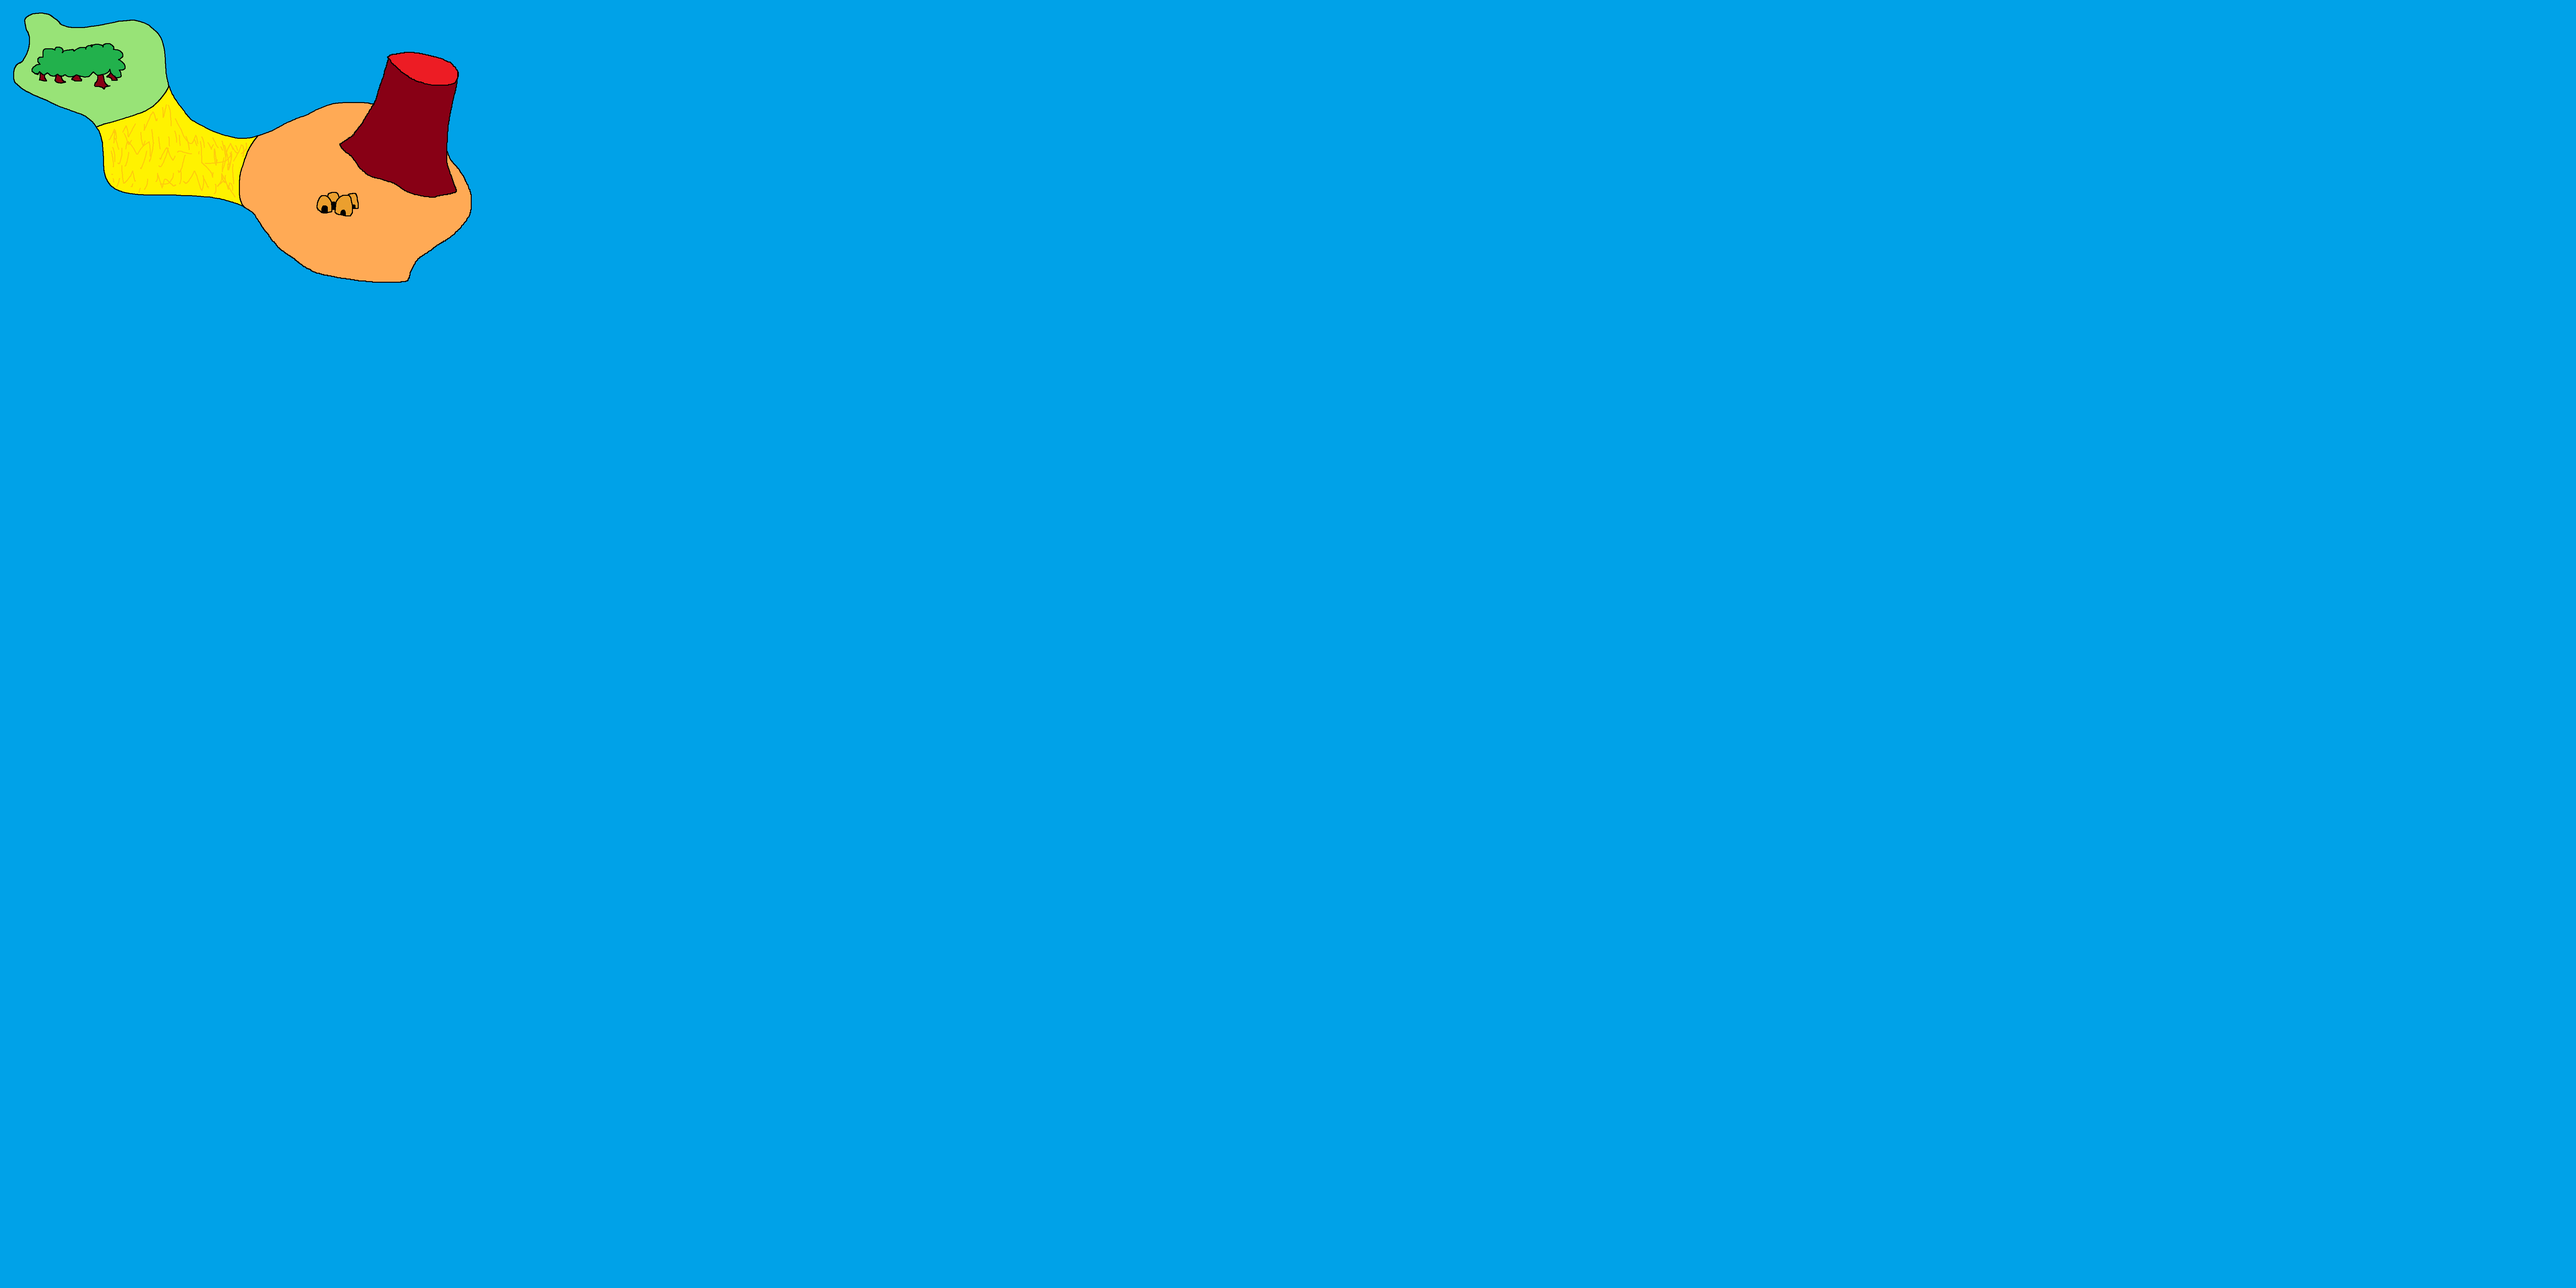
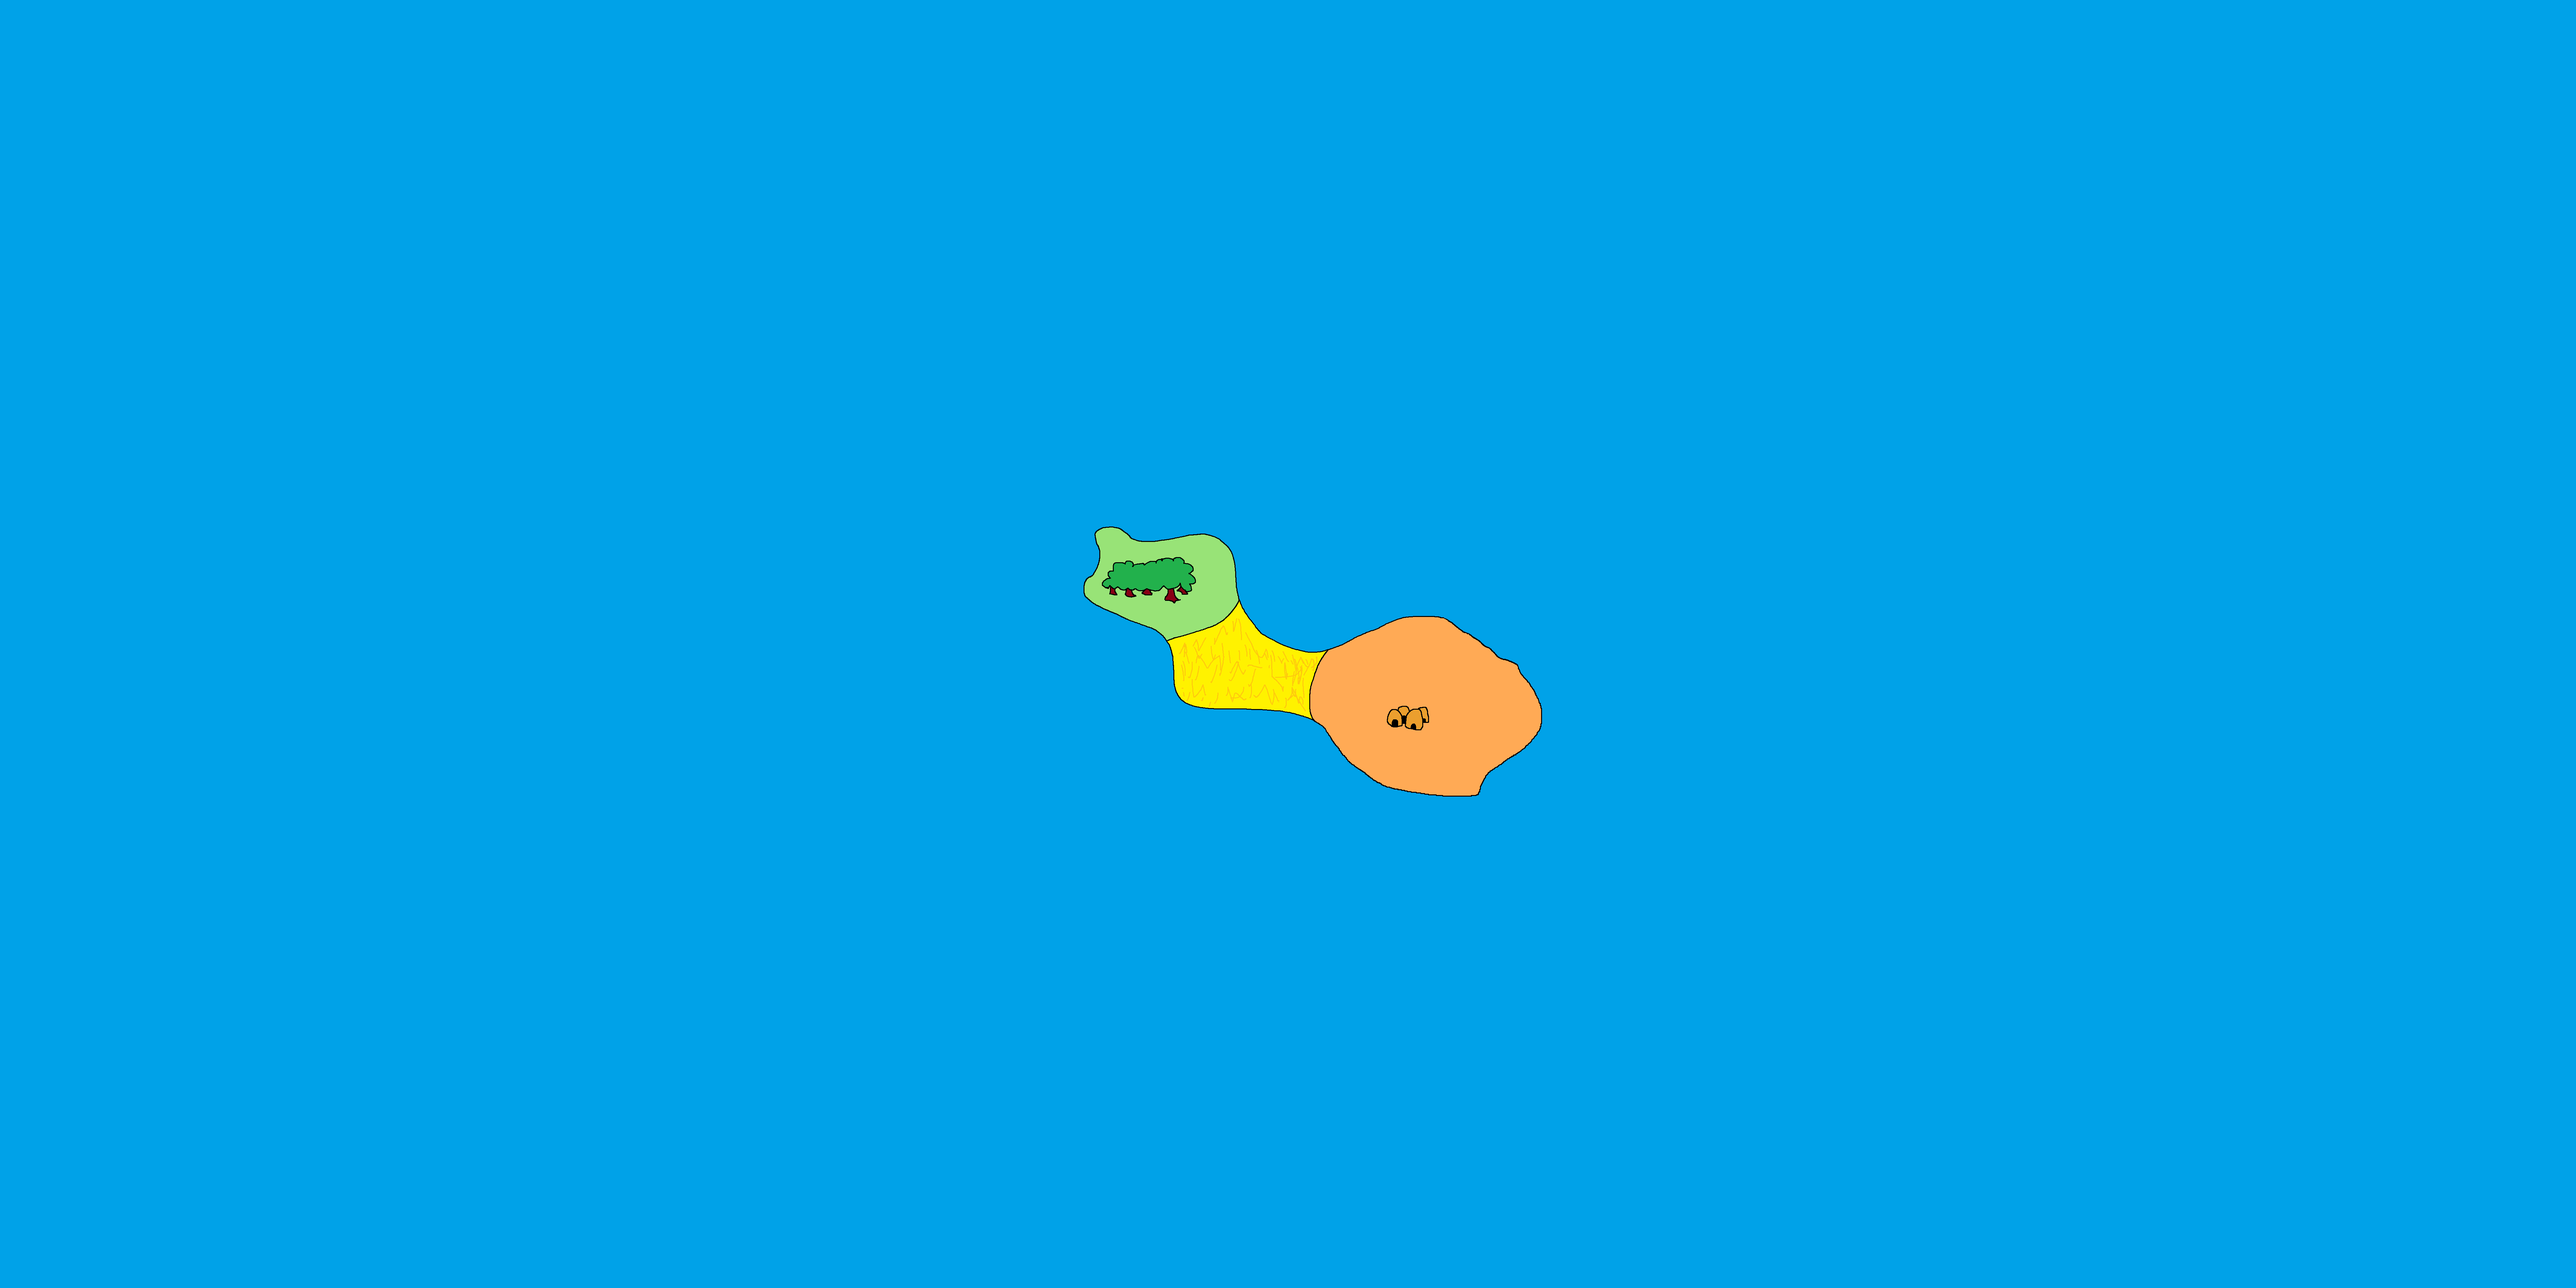
World map clean up

Changed region(s): [[0.0, 0.0, 0.1875, 0.2188], [0.4062, 0.4062, 0.625, 0.625]]

diff --git a/AngularFrontend/LootHoarderClient/src/app/app.module.ts b/AngularFrontend/LootHoarderClient/src/app/app.module.ts
@@ -14,7 +14,6 @@ import { GameComponent } from './game/game/game.component';
 import { AuthGuard } from './auth/auth.guard';
 import { GameService } from './game/service/game.service';
 import { WebSocketService } from './game/web-socket/web-socket.service';
-import { HeroListComponent } from './game/game/game-tab-heroes/hero-list/hero-list.component';
 import { LabelWithValueComponent } from './shared/label-with-value/label-with-value.component';
 import { AssetManagerService } from './game/game/client-representation/asset-manager.service';
 import { GameTabMenuComponent } from './game/game/game-tab-menu/game-tab-menu.component';
@@ -38,12 +37,15 @@ import { HeroWithItemsComponent } from './game/game/game-tab-heroes/hero-with-it
 import { HeroWithItemsItemComponent } from './game/game/game-tab-heroes/hero-with-items/hero-with-items-item/hero-with-items-item.component';
 import { ItemComponent } from './game/game/item/item.component';
 import { ItemPreviewComponent } from './game/game/item-preview/item-preview.component';
+import { SelectedHeroTabMenuComponent } from './game/game/game-tab-heroes/selected-hero-tab-menu/selected-hero-tab-menu.component';
+import { SelectedHeroAbilitiesTabComponent } from './game/game/game-tab-heroes/selected-hero-abilities-tab/selected-hero-abilities-tab.component';
+import { SelectedHeroItemsTabComponent } from './game/game/game-tab-heroes/selected-hero-items-tab/selected-hero-items-tab.component';
+import { SelectedHeroPassivesTabComponent } from './game/game/game-tab-heroes/selected-hero-passives-tab/selected-hero-passives-tab.component';
 
 @NgModule({
   declarations: [
     AppComponent,
     CreateNewHeroComponent,
-    HeroListComponent,
     LabelWithValueComponent,
     LoginComponent,
     CreateUserComponent,
@@ -53,6 +55,10 @@ import { ItemPreviewComponent } from './game/game/item-preview/item-preview.comp
     CombatComponent,
     CombatCharacterComponent,
     GameTabHeroesComponent,
+    SelectedHeroTabMenuComponent,
+    SelectedHeroAbilitiesTabComponent,
+    SelectedHeroItemsTabComponent,
+    SelectedHeroPassivesTabComponent,
     HeroInformationComponent,
     HeroWithItemsComponent,
     HeroWithItemsItemComponent,

diff --git a/AngularFrontend/LootHoarderClient/src/app/game/game/game-tab-world/game-tab-world.component.ts b/AngularFrontend/LootHoarderClient/src/app/game/game/game-tab-world/game-tab-world.component.ts
@@ -22,8 +22,6 @@ export class GameTabWorldComponent {
 
   private dragStartX?: number;
   private dragStartY?: number;
-  private readonly worldMapWidth = 8000;
-  private readonly worldMapHeight = 4000;
 
   public get areaTypes(): AreaType[] {
     return this.game.availableAreaTypes;
@@ -35,6 +33,10 @@ export class GameTabWorldComponent {
   public set y(newValue: number) { this.worldTab.worldMapY = newValue; }
   public get zoom(): number { return this.worldTab.worldMapZoom; }
   public set zoom(newValue: number) { this.worldTab.worldMapZoom = newValue; }
+  public get worldMapWidth(): number { return this.worldTab.worldMapWidth; }
+  public get worldMapHeight(): number { return this.worldTab.worldMapHeight; }
+  public get worldMapFixtureX(): number { return this.worldTab.worldMapFixtureX; }
+  public get worldMapFixtureY(): number { return this.worldTab.worldMapFixtureY; }
 
   public selectGameAreaType(areaType: GameAreaType): void {
     if (!areaType.isAvailable) {
@@ -44,11 +46,11 @@ export class GameTabWorldComponent {
   }
 
   public getGameAreaTypeLeft(areaType: GameAreaType): string {
-    return areaType.type.x - 30 + 'px';
+    return areaType.type.x + this.worldMapFixtureX - 30 + 'px';
   }
 
   public getGameAreaTypeTop(areaType: GameAreaType): string {
-    return areaType.type.y - 85 + 'px';
+    return areaType.type.y + this.worldMapFixtureY - 85 + 'px';
   }
 
   public startDragging(mouseEvent: MouseEvent): void {
@@ -62,8 +64,8 @@ export class GameTabWorldComponent {
 
       const newDragStartX = mouseEvent.clientX;
       const newDragStartY = mouseEvent.clientY;
-      const deltaX = newDragStartX - this.dragStartX;
-      const deltaY = newDragStartY - this.dragStartY;
+      const deltaX = (newDragStartX - this.dragStartX) / this.zoom;
+      const deltaY = (newDragStartY - this.dragStartY) / this.zoom;
       let newX = this.x + deltaX;
       let newY = this.y + deltaY;
       const browserElement = mouseEvent.currentTarget as Element;

diff --git a/AngularFrontend/LootHoarderClient/src/app/game/game/game-tab-heroes/game-tab-heroes.component.html b/AngularFrontend/LootHoarderClient/src/app/game/game/game-tab-heroes/game-tab-heroes.component.html
@@ -3,6 +3,7 @@
   class="container"
 >
   <div class="hero-list-container">
+    <div class="hero-list-header">Heroes</div>
     <ul class="hero-list">
       <li
         *ngFor="let hero of game.heroes"
@@ -31,26 +32,11 @@
     </ul>
   </div>
   <ng-container *ngIf="selectedHero">
-    <div class="hero-with-items-container">
-      <app-hero-with-items
+    <div class="selected-hero-tabs-container">
+      <app-selected-hero-tab-menu
+        [game]="game"
         [hero]="selectedHero"
-        [draggedItem]="draggedItem"
-        [canInteractWithItems]="true"
-      ></app-hero-with-items>
-      <ul class="item-list">
-        <li *ngFor="let item of game.items">
-          <app-item
-            [item]="item"
-            (dragstart)="setDraggedItem(item)"
-            (dragend)="setDraggedItem(undefined)"
-          ></app-item>
-        </li>
-      </ul>
-    </div>
-    <div class="hero-information-container">
-      <app-hero-information
-        [hero]="selectedHero"
-      ></app-hero-information>
+      ></app-selected-hero-tab-menu>
     </div>
   </ng-container>
 </div>

diff --git a/AngularFrontend/LootHoarderClient/src/app/game/game/game-tab-heroes/selected-hero-tab-menu/selected-hero-tab-menu.component.html b/AngularFrontend/LootHoarderClient/src/app/game/game/game-tab-heroes/selected-hero-tab-menu/selected-hero-tab-menu.component.html
@@ -1,0 +1,37 @@
+<div class="content">
+  <ul class="tab-buttons">
+    <li 
+      class="tab-button"
+      [class.selected]="selectedTab === 'items'"
+      (click)="changeTab('items')"
+    >Items</li>
+    <li 
+      class="tab-button"
+      [class.selected]="selectedTab === 'abilities'"
+      (click)="changeTab('abilities')"
+    >Abilities</li>
+    <li 
+      class="tab-button"
+      [class.selected]="selectedTab === 'passives'"
+      (click)="changeTab('passives')"
+    >Passives</li>
+  </ul>
+  
+  <div class="tab-content">
+    <app-selected-hero-items-tab
+      *ngIf="selectedTab === 'items'"
+      [game]="game"
+      [hero]="hero"
+    ></app-selected-hero-items-tab>
+    
+    <app-selected-hero-abilities-tab
+      *ngIf="selectedTab === 'abilities'"
+      [hero]="hero"
+    ></app-selected-hero-abilities-tab>
+    
+    <app-selected-hero-passives-tab
+      *ngIf="selectedTab === 'passives'"
+      [hero]="hero"
+    ></app-selected-hero-passives-tab>
+  </div>
+</div>

diff --git a/AngularFrontend/LootHoarderClient/src/app/game/game/game-tab-heroes/selected-hero-tab-menu/selected-hero-tab-menu.component.ts b/AngularFrontend/LootHoarderClient/src/app/game/game/game-tab-heroes/selected-hero-tab-menu/selected-hero-tab-menu.component.ts
@@ -1,0 +1,25 @@
+import { Component, Input, OnInit } from '@angular/core';
+import { Game } from '../../client-representation/game';
+import { Hero } from '../../client-representation/hero';
+
+@Component({
+  selector: 'app-selected-hero-tab-menu',
+  templateUrl: './selected-hero-tab-menu.component.html',
+  styleUrls: ['./selected-hero-tab-menu.component.scss']
+})
+export class SelectedHeroTabMenuComponent implements OnInit {
+  @Input()
+  public game!: Game;
+  @Input()
+  public hero!: Hero;
+
+  public selectedTab: string = 'items';
+
+  public ngOnInit(): void {
+    this.selectedTab = 'items';
+  }
+
+  public changeTab(tabName: string): void {
+    this.selectedTab = tabName;
+  }
+}

diff --git a/AngularFrontend/LootHoarderClient/src/app/game/game/game-tab-heroes/selected-hero-items-tab/selected-hero-items-tab.component.ts b/AngularFrontend/LootHoarderClient/src/app/game/game/game-tab-heroes/selected-hero-items-tab/selected-hero-items-tab.component.ts
@@ -1,0 +1,22 @@
+import { Component, Input } from '@angular/core';
+import { Game } from '../../client-representation/game';
+import { Hero } from '../../client-representation/hero';
+import { Item } from '../../client-representation/item';
+
+@Component({
+  selector: 'app-selected-hero-items-tab',
+  templateUrl: './selected-hero-items-tab.component.html',
+  styleUrls: ['./selected-hero-items-tab.component.scss']
+})
+export class SelectedHeroItemsTabComponent {
+  @Input() 
+  public game!: Game;
+  @Input()
+  public hero!: Hero;
+
+  public draggedItem?: Item;
+
+  public setDraggedItem(item: Item | undefined): void {
+    this.draggedItem = item;
+  }
+}

diff --git a/AngularFrontend/LootHoarderClient/src/app/game/game/game-tab-heroes/selected-hero-items-tab/selected-hero-items-tab.component.html b/AngularFrontend/LootHoarderClient/src/app/game/game/game-tab-heroes/selected-hero-items-tab/selected-hero-items-tab.component.html
@@ -1,0 +1,23 @@
+<div class="content">
+  <span class="hero-with-items-container">
+    <app-hero-with-items
+      [hero]="hero"
+      [draggedItem]="draggedItem"
+      [canInteractWithItems]="true"
+    ></app-hero-with-items>
+    <ul class="item-list">
+      <li *ngFor="let item of game.items">
+        <app-item
+          [item]="item"
+          (dragstart)="setDraggedItem(item)"
+          (dragend)="setDraggedItem(undefined)"
+        ></app-item>
+      </li>
+    </ul>
+  </span>
+  <span class="hero-information-container">
+    <app-hero-information
+      [hero]="hero"
+    ></app-hero-information>
+  </span>
+</div>

diff --git a/AngularFrontend/LootHoarderClient/src/app/game/game/client-representation/world-tab.ts b/AngularFrontend/LootHoarderClient/src/app/game/game/client-representation/world-tab.ts
@@ -1,14 +1,18 @@
 import { AreaType } from "./area-type";
 
 export class WorldTab {
+  public readonly worldMapWidth = 8000;
+  public readonly worldMapHeight = 4000;
+  public readonly worldMapFixtureX = 3575;
+  public readonly worldMapFixtureY = 1800;
   public worldMapX: number;
   public worldMapY: number;
   public worldMapZoom: number;
   public selectedAreaType?: AreaType;
 
   public constructor() {
-    this.worldMapX = 0;
-    this.worldMapY = 0;
+    this.worldMapX = -this.worldMapFixtureX + 300;
+    this.worldMapY = -this.worldMapFixtureY + 300;
     this.worldMapZoom = 1;
     this.selectedAreaType = undefined;
   }

diff --git a/AngularFrontend/LootHoarderClient/src/app/game/game/game-tab-heroes/game-tab-heroes.component.scss b/AngularFrontend/LootHoarderClient/src/app/game/game/game-tab-heroes/game-tab-heroes.component.scss
@@ -4,6 +4,12 @@
 
   .hero-list-container {
     flex: 0 0 300px;
+    
+    .hero-list-header {
+      font-size: 20px;
+      margin-bottom: 10px;
+      margin-top: 5px;
+    }
 
     .hero-list {
       max-width: 500px;
@@ -50,20 +56,8 @@
     }
   }
 
-  .hero-with-items-container {
-    flex: 0 0 500px;
-    display: flex;
-    flex-direction: column;
-
-    .item-list {
-      display: flex;
-      flex-wrap: wrap;
-      flex: 1 1 0;
-      align-content: flex-start;
-    }
-  }
-
-  .hero-information-container {
-    flex: 0 0 300px;
+  .selected-hero-tabs-container {
+    flex: 1 1 0;
+    margin-left: 10px;
   }
 }

diff --git a/AngularFrontend/LootHoarderClient/src/app/game/game/game-tab-world/game-tab-world.component.scss b/AngularFrontend/LootHoarderClient/src/app/game/game/game-tab-world/game-tab-world.component.scss
@@ -14,6 +14,12 @@
         position: absolute;
 
         &.available.completed {
+          &.selected {
+            .area-type-marker {
+              background-color: gold;
+            }
+          }
+
           .area-type-marker {
             background-color: goldenrod;
             cursor: pointer;
@@ -25,6 +31,12 @@
         }
 
         &.available {
+          &.selected {
+            .area-type-marker {
+              background-color: orangered;
+            }
+          }
+
           .area-type-marker {
             background-color: red;
             cursor: pointer;

diff --git a/AngularFrontend/LootHoarderClient/src/app/game/game/game-tab-world/game-tab-world-area-type-information/game-tab-world-area-type-information.component.html b/AngularFrontend/LootHoarderClient/src/app/game/game/game-tab-world/game-tab-world-area-type-information/game-tab-world-area-type-information.component.html
@@ -22,10 +22,11 @@
       (click)="toggleHeroSelected(hero)"
     >
       <div>{{hero.name}}</div>
-      <img 
-        class="hero-image"
-        [src]="'assets/images/' + hero.type.key + '.png'" 
-      />
+      <div class="hero-image-container">
+        <app-hero-with-items
+          [hero]="hero"
+        ></app-hero-with-items>
+      </div>
       <img 
         class="selected-check-mark"
         src="assets/images/check-mark.png"

diff --git a/AngularFrontend/LootHoarderClient/src/app/game/game/game-tab-heroes/selected-hero-tab-menu/selected-hero-tab-menu.component.scss b/AngularFrontend/LootHoarderClient/src/app/game/game/game-tab-heroes/selected-hero-tab-menu/selected-hero-tab-menu.component.scss
@@ -1,0 +1,25 @@
+.content {
+  display: flex;
+  flex-direction: column;
+  height: 100%;
+
+  .tab-buttons {
+    display: flex;
+
+    .tab-button {
+      padding: 10px;
+      background-color: #C0C0C0;
+      cursor: pointer;
+      margin-right: 5px;
+
+      &.selected {
+        background-color: lightgrey;
+      }
+    }
+  }
+
+  .tab-content {
+    flex: 1 1 0;
+    background-color: lightgrey;
+  }
+}
